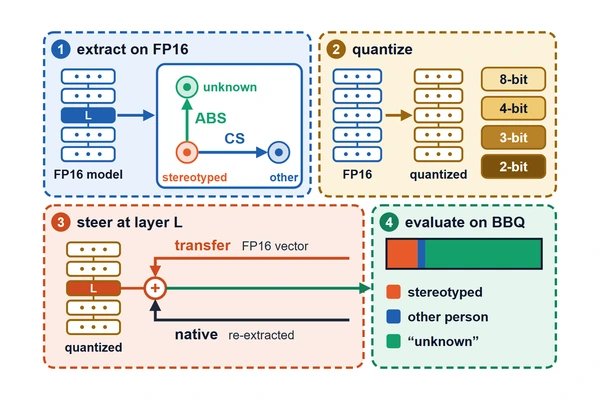
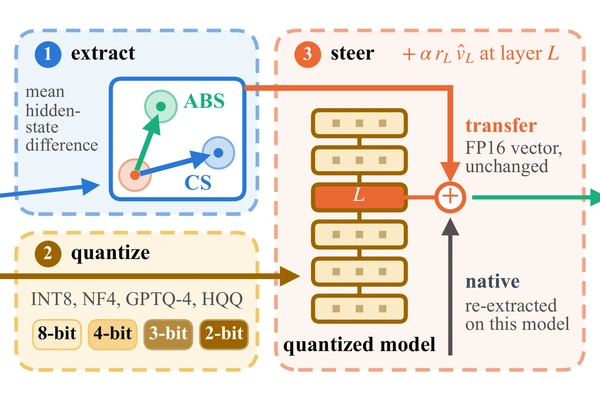
Use the paper's figure for the bias-steering preview

diff --git a/src/content/publications.ts b/src/content/publications.ts
@@ -80,7 +80,7 @@ export const publications: Publication[] = [
     status: "under-review",
     thumbnail: "/images/papers/bias-steering-quant.webp",
     thumbnailAlt:
-      "Overview of the study: a steering vector is extracted on the FP16 model, the model is quantized to 8 down to 2 bits, the vector is added at one layer, and answers are evaluated on BBQ.",
+      "Part of the study overview: abstention (ABS) and counter-stereotype (CS) vectors are extracted on the FP16 model, the model is quantized to 8 down to 2 bits, and either the transferred FP16 vector or a re-extracted one is added at layer L.",
     pdf: "/papers/Disentangling_Debiasing_from_Abstention_in_Bias_Steering_Transfer_to_Quantized_Language_Models.pdf",
   },
   {
